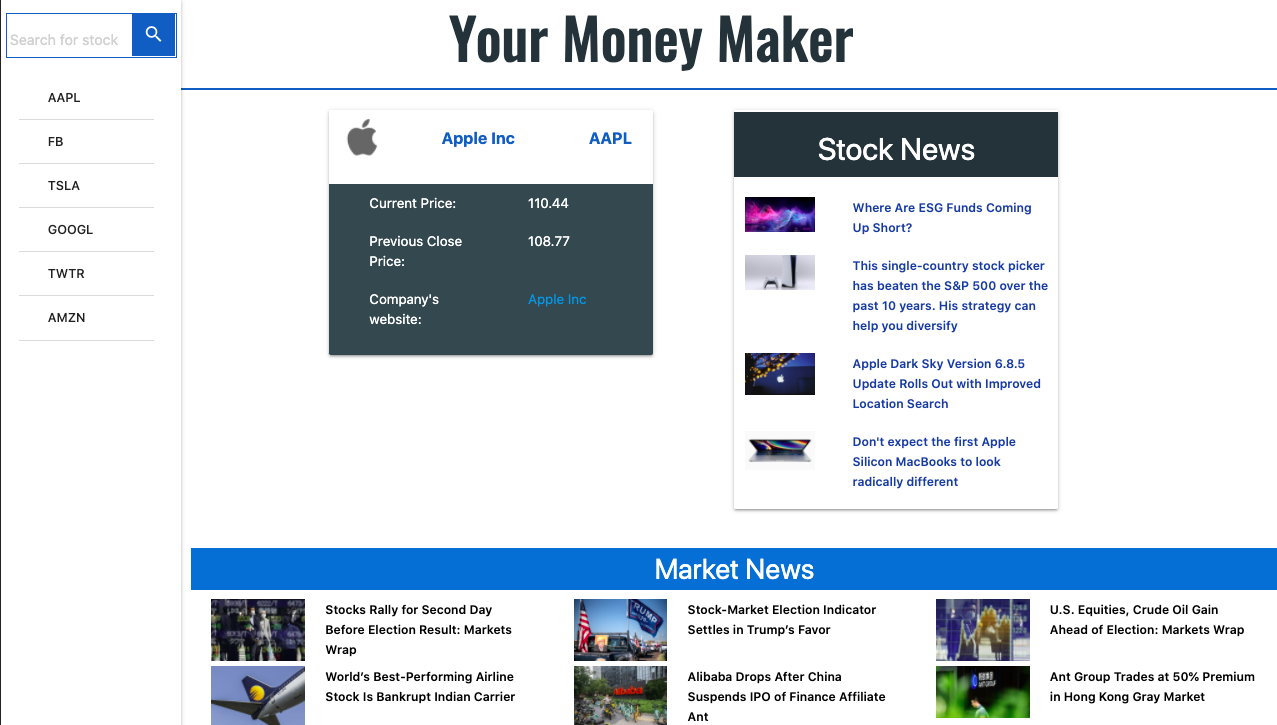
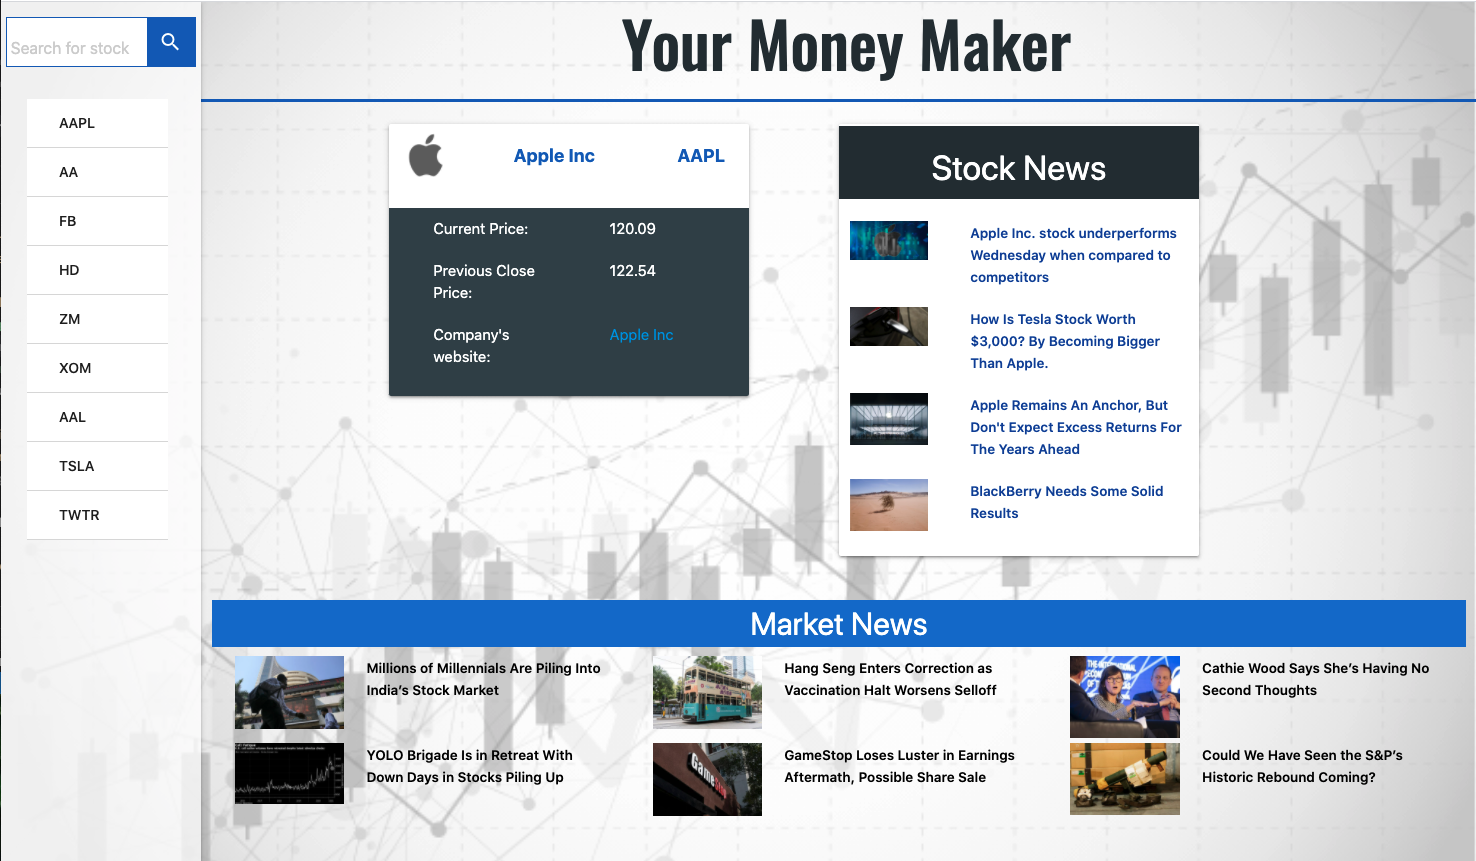
layout adjustments

diff --git a/assets/js/script.js b/assets/js/script.js
@@ -1,3 +1,7 @@
+// API keys variables
+var finHubKey = config.finHubToken;
+var rapidApiKey = config.rapidApiKey;
+
 // Element variable declartions
 var companyInfoEl = document.querySelector(".stock-info");
 var companyLogoEl = document.querySelector(".company-logo");
@@ -11,7 +15,7 @@ var previousStockTickersEl = document.querySelector(".search-results");
 
 // getting data from localStorage or default values
 var stockTickers = JSON.parse(localStorage.getItem("stock-tickers")) || [];
-var stockTickersDefault = "AAPL";
+var stockTickersDefault = "ZM";
 
 // rendering previously searched stock on side nav
 var displayPreviousStockTickers = function (stockTickers) {
@@ -48,12 +52,12 @@ var storeStockTickers = function (stockTicker) {
 var getRapidApiNews = function () {
   fetch(
     "https://bloomberg-market-and-financial-news.p.rapidapi.com/stories/list?template=STOCK&id=usdjpy", {
-      method: "GET",
-      headers: {
-        "x-rapidapi-host": "bloomberg-market-and-financial-news.p.rapidapi.com",
-        "x-rapidapi-key": "5c8fbc5672msh858d81bcc9a0d96p1f4f1bjsndfd3f3787929",
-      },
-    }
+    method: "GET",
+    headers: {
+      "x-rapidapi-host": "bloomberg-market-and-financial-news.p.rapidapi.com",
+      "x-rapidapi-key": rapidApiKey,
+    },
+  }
   ).then(function (response) {
     response.json().then(function (data) {
       if (data.stories) {
@@ -97,7 +101,8 @@ var getNewsData = function (stockTicker) {
     oldDate +
     "&to=" +
     mainDate +
-    "&token=bufqlff48v6veg4jhmcg";
+    "&token=" +
+    finHubKey;
 
   fetch(newsURL)
     .then(function (response) {
@@ -122,7 +127,8 @@ var getStockPrices = function (stockTicker) {
   fetch(
     "https://finnhub.io/api/v1/quote?symbol=" +
     stockTicker +
-    "&token=bubka1v48v6ouqkj675g"
+    "&token=" +
+    finHubKey
   ).then(function (response) {
     response.json().then(function (data) {
       stockCurrentEl.innerHTML = "";
@@ -142,10 +148,11 @@ var getStockPrices = function (stockTicker) {
 // This is dynamically run with the value of the #search field elemnet
 var getCompanyData = function (stockTicker) {
   fetch(
-      "https://finnhub.io/api/v1/stock/profile2?symbol=" +
-      stockTicker +
-      "&token=bubka1v48v6ouqkj675g"
-    )
+    "https://finnhub.io/api/v1/stock/profile2?symbol=" +
+    stockTicker +
+    "&token=" +
+    finHubKey
+  )
     .then(function (stockResponse) {
       return stockResponse.json();
     })

diff --git a/index.html b/index.html
@@ -12,7 +12,7 @@
   <title>Money Maker: Pays to Know</title>
 </head>
 
-<body>
+<body class='background-img'>
   <div class="nav-wrapper">
     <!-- menu bar to be displayed on small screens only  -->
     <a href="#" data-target="nav-mobile"
@@ -89,7 +89,7 @@
         <div class="stock-news">
         </div>
       </div>
-    </div> 
+    </div>
 
   </div>
 
@@ -104,6 +104,7 @@
   </div>
   <script src="https://cdnjs.cloudflare.com/ajax/libs/jquery/3.4.1/jquery.min.js"></script>
   <script src="https://cdnjs.cloudflare.com/ajax/libs/materialize/1.0.0/js/materialize.min.js"></script>
+  <script type='text/javascript' src="config.js"></script>
   <script src="./assets/js/script.js"></script>
 </body>
 

diff --git a/assets/css/style.css b/assets/css/style.css
@@ -2,13 +2,19 @@
   box-sizing: border-box;
 }
 
-
+.background-img {
+  background-image: url('../images/money-maker-new.png');
+  background-size: cover;
+  background-repeat: no-repeat;
+}
 .nav-wrapper {
   margin-bottom: 1rem;
 }
 
 .top-banner {
   border-bottom: #1565c0 solid 3px;
+  width: calc(100% - 200px);
+  margin-left: auto;
 }
 
 .main-header {
@@ -121,6 +127,9 @@ footer {
   padding-left: 200px;
 }
 
+.sidenav {
+  background-color: rgba(255,255,255,0.75);
+}
 
 /* offsetting sidenav fixed width */
 @media only screen and (max-width: 992px) {
